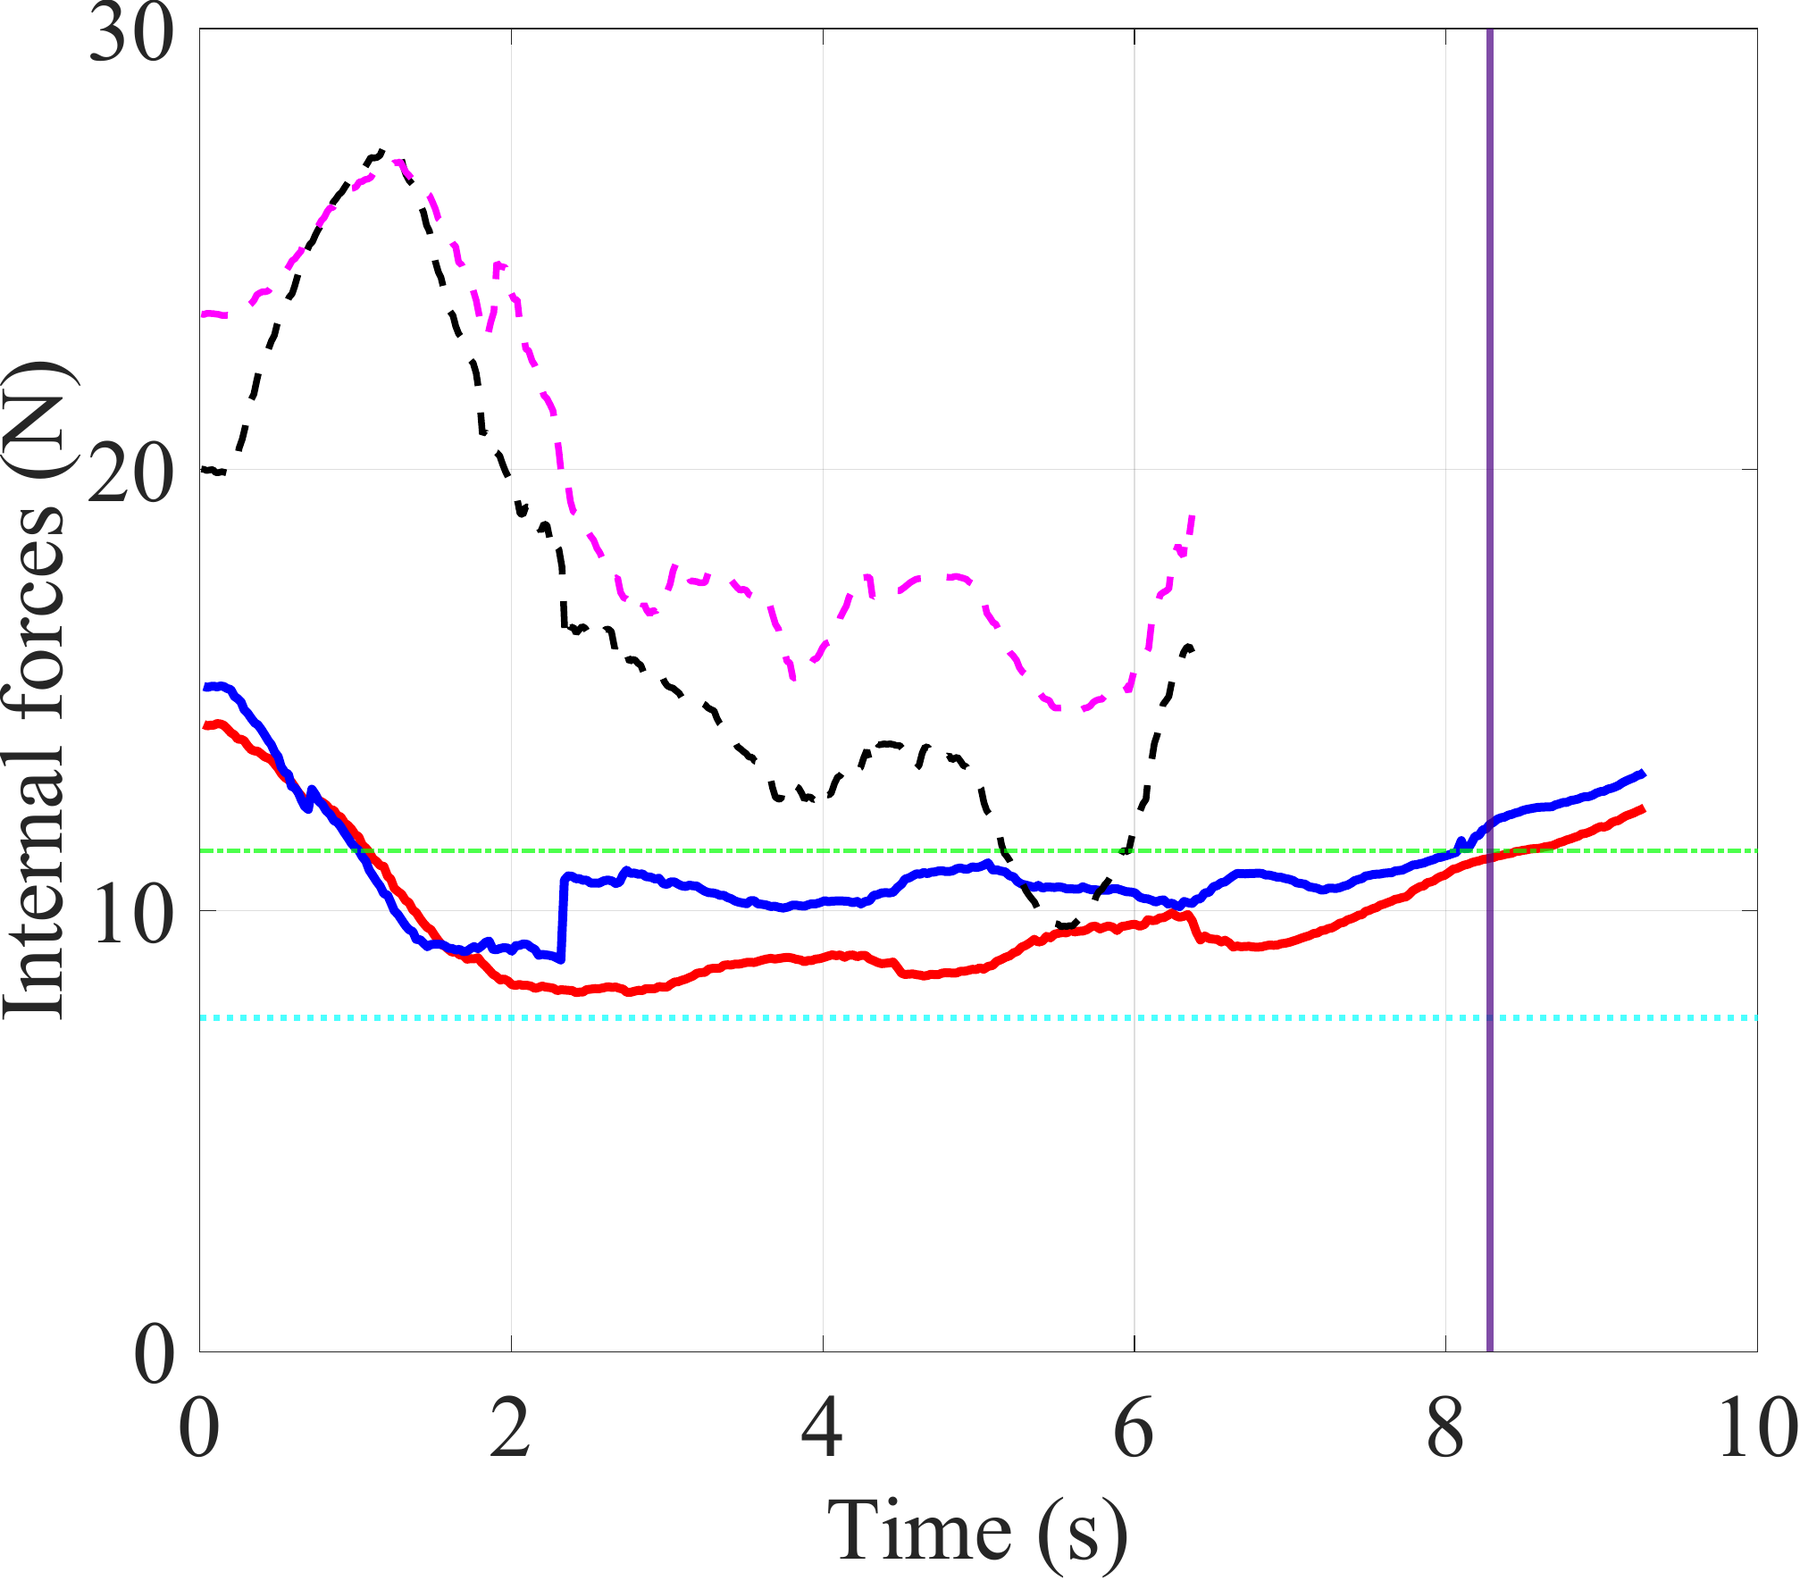
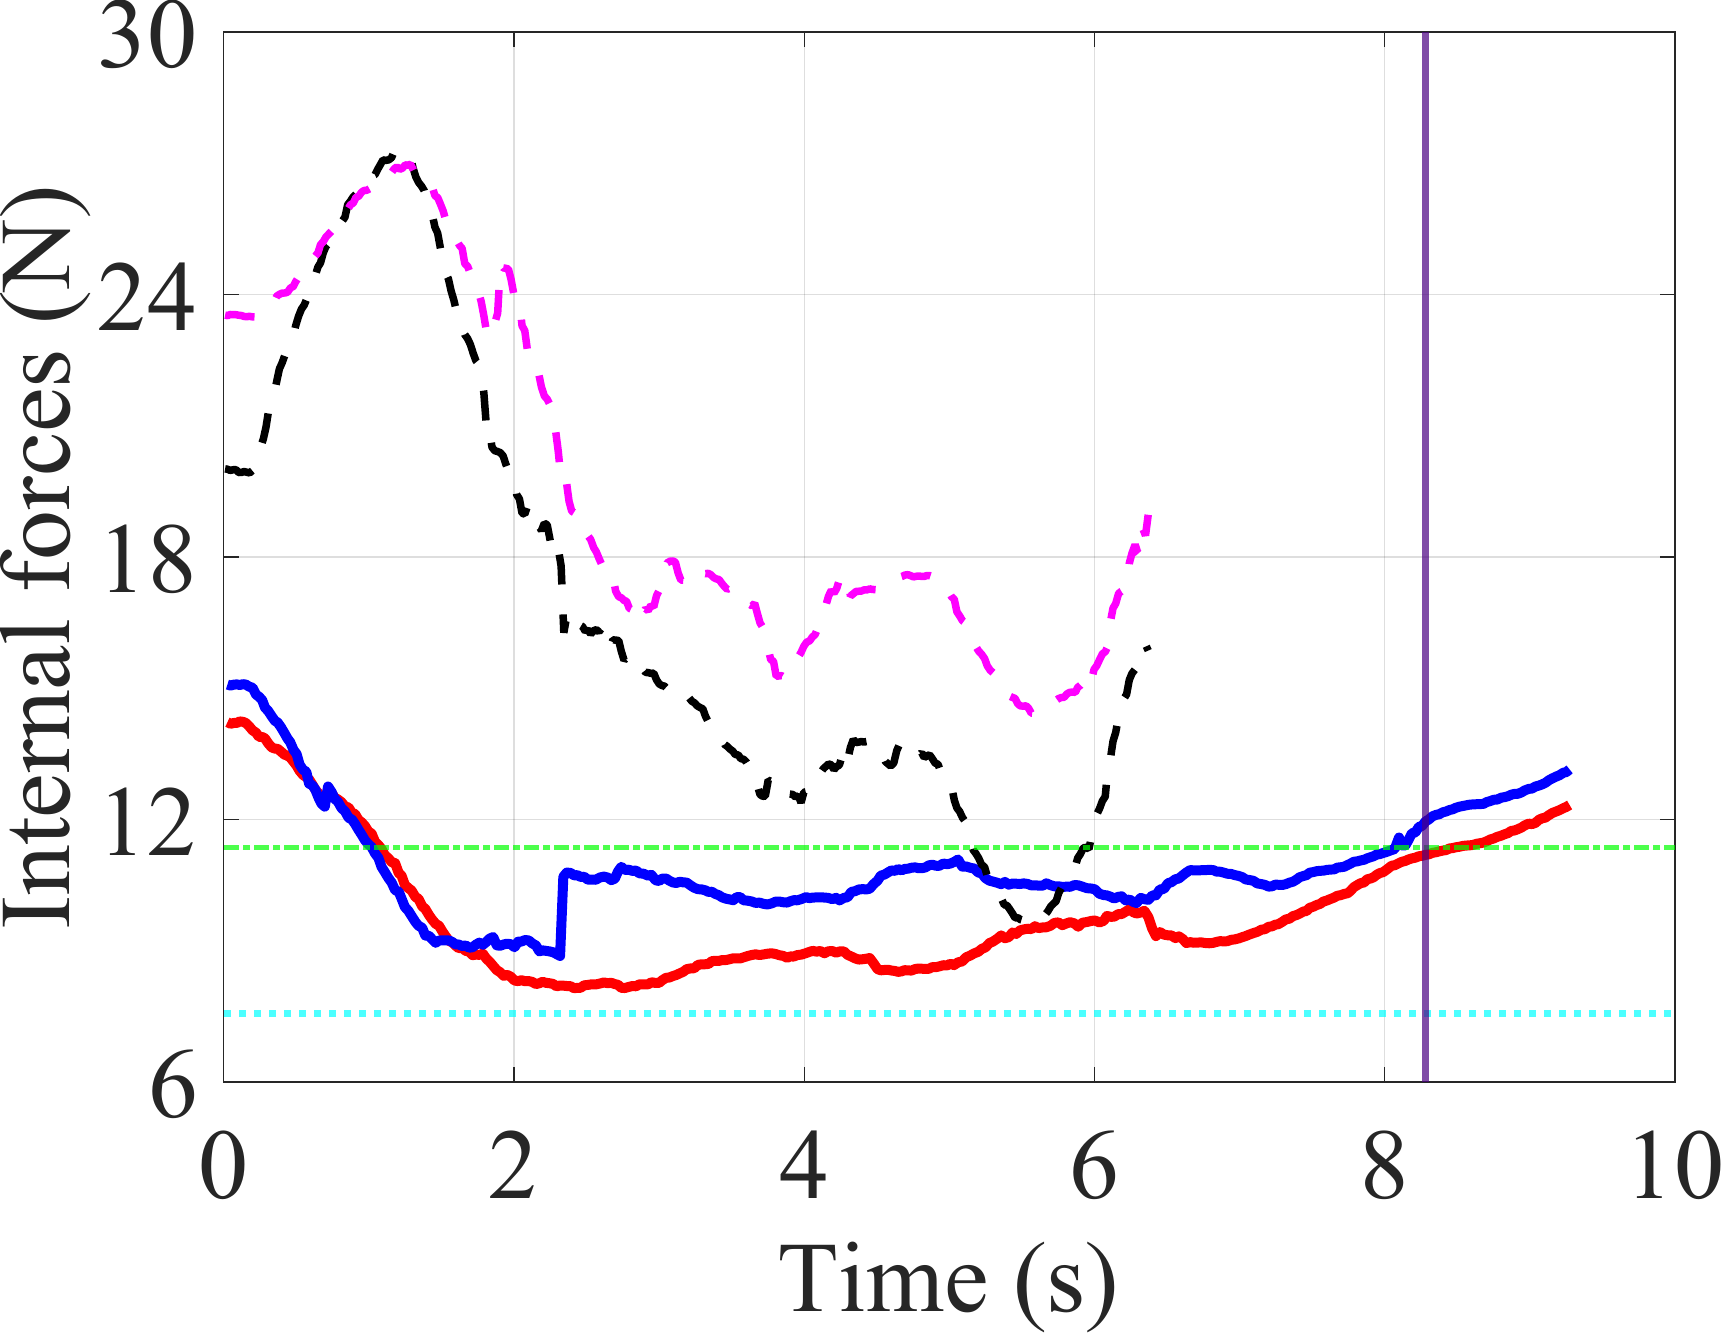
docs: sync updated paper plots and add figure updater

diff --git a/scripts/sync_paper_images.py b/scripts/sync_paper_images.py
@@ -1,0 +1,115 @@
+r"""Update the README image copies from the manuscript's original figure directory.
+
+Usage:
+    py -3 scripts/sync_paper_images.py --source-dir "F:\\BaiduSyncdisk\\0728latex"
+    py -3 scripts/sync_paper_images.py --source-dir "F:\\BaiduSyncdisk\\0728latex" --watch
+
+The source directory remains the authority. GitHub displays copies in this repo;
+it cannot read files from a visitor's local F: drive.
+"""
+
+from __future__ import annotations
+
+import argparse
+import json
+import shutil
+import subprocess
+import tempfile
+import time
+from pathlib import Path
+
+from PIL import Image
+
+
+REPO = Path(__file__).resolve().parents[1]
+MANIFEST = REPO / "assets" / "paper" / "manifest.json"
+
+
+def source_for(source_dir: Path, reference: str) -> Path:
+    path = source_dir.joinpath(*reference.split("/"))
+    if path.is_file():
+        return path
+    for extension in (".pdf", ".png", ".PNG", ".jpg", ".jpeg"):
+        candidate = Path(str(path) + extension)
+        if candidate.is_file():
+            return candidate
+    raise FileNotFoundError(f"Original image not found: {path}")
+
+
+def render_pdf(source: Path, target: Path, pdftoppm: str) -> None:
+    with tempfile.TemporaryDirectory(prefix="paper-figure-") as directory:
+        prefix = Path(directory) / "page"
+        subprocess.run(
+            [pdftoppm, "-f", "1", "-singlefile", "-png", "-r", "180", str(source), str(prefix)],
+            check=True,
+            stdout=subprocess.DEVNULL,
+        )
+        with Image.open(prefix.with_suffix(".png")) as image:
+            image.load()
+            if image.mode not in ("RGB", "RGBA"):
+                image = image.convert("RGB")
+            image.thumbnail((1800, 1800), Image.Resampling.LANCZOS)
+            image.save(target, "PNG", optimize=True)
+
+
+def make_preview(source: Path, target: Path, pdftoppm: str | None) -> None:
+    target.parent.mkdir(parents=True, exist_ok=True)
+    if source.suffix.lower() == ".pdf":
+        if pdftoppm is None:
+            raise RuntimeError("pdftoppm is required to display PDF figures in the README")
+        render_pdf(source, target, pdftoppm)
+        return
+
+    with Image.open(source) as image:
+        image.load()
+        if target.suffix.lower() == ".jpg":
+            if image.mode in ("RGBA", "LA"):
+                canvas = Image.new("RGB", image.size, "white")
+                canvas.paste(image.convert("RGB"), mask=image.getchannel("A"))
+                image = canvas
+            else:
+                image = image.convert("RGB")
+            image.thumbnail((900, 900), Image.Resampling.LANCZOS)
+            image.save(target, "JPEG", quality=84, optimize=True, progressive=True)
+        else:
+            image.save(target)
+
+
+def synchronize(source_dir: Path, force: bool) -> int:
+    entries = json.loads(MANIFEST.read_text(encoding="utf-8"))
+    pdftoppm = shutil.which("pdftoppm")
+    changed = 0
+    for entry in entries:
+        source = source_for(source_dir, entry["latex_reference"])
+        target = REPO.joinpath(*entry["repository_path"].split("/"))
+        if not force and target.exists() and source.stat().st_mtime_ns <= target.stat().st_mtime_ns:
+            continue
+        make_preview(source, target, pdftoppm)
+        changed += 1
+        print(f"Updated {entry['repository_path']} from {source}")
+    return changed
+
+
+def main() -> None:
+    parser = argparse.ArgumentParser(description=__doc__)
+    parser.add_argument("--source-dir", type=Path, required=True, help="Directory containing the manuscript's original images")
+    parser.add_argument("--watch", action="store_true", help="Keep local previews in sync while this command runs")
+    parser.add_argument("--force", action="store_true", help="Rebuild every preview, even when the source timestamp is older")
+    args = parser.parse_args()
+    if not args.source_dir.is_dir():
+        parser.error(f"Source directory does not exist: {args.source_dir}")
+
+    try:
+        while True:
+            changed = synchronize(args.source_dir, args.force)
+            print(f"Synchronized {changed} image(s).")
+            if not args.watch:
+                break
+            args.force = False
+            time.sleep(2)
+    except KeyboardInterrupt:
+        print("Stopped watching.")
+
+
+if __name__ == "__main__":
+    main()
